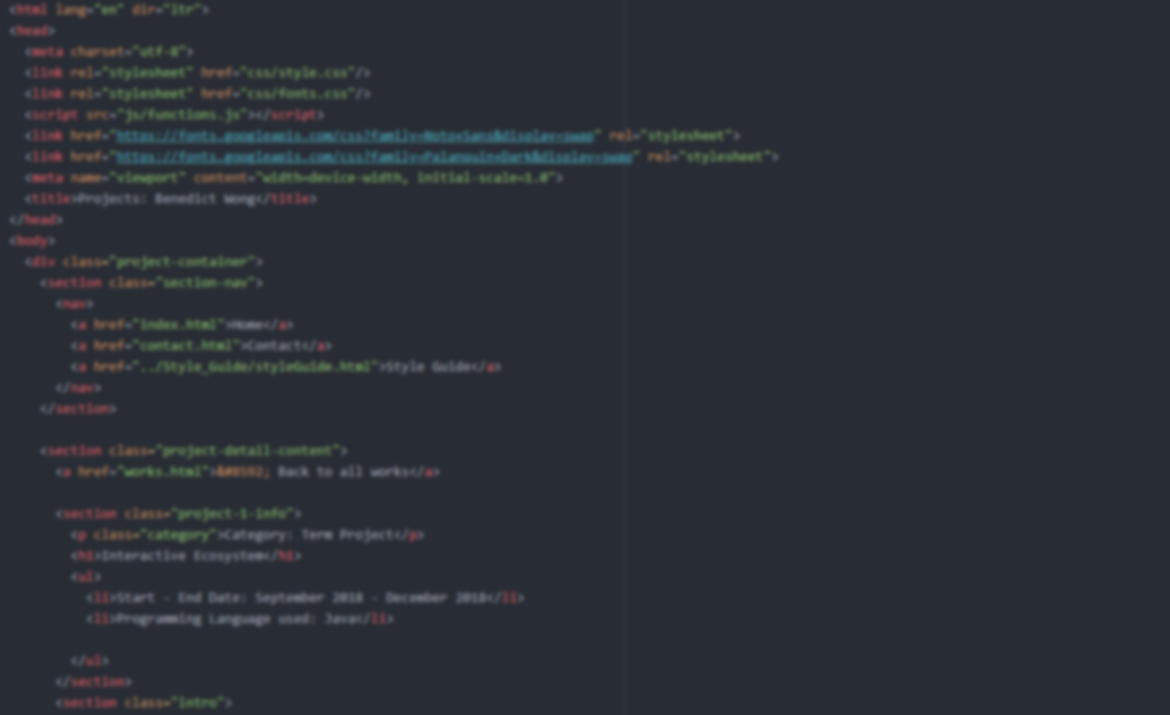
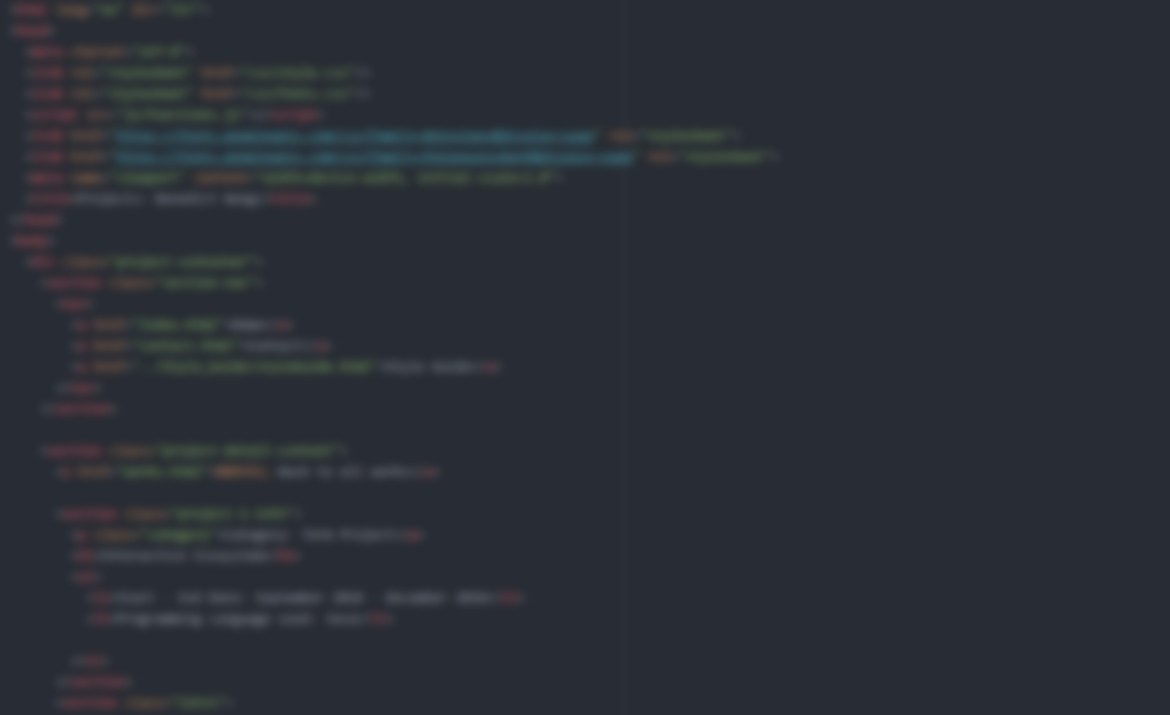
single page design

diff --git a/Website/index.html b/Website/index.html
@@ -11,31 +11,99 @@
     <meta name="viewport" content="width=device-width, initial-scale=1.0">
     <title>About: Benedict Wong</title>
   </head>
-  <body>
-    <section class="landing-page">
-    
+  <body class="index-body">
     <section class="section-nav">
       <nav>
-
-        <a href="works.html">Works</a>
+        <a href="#about">About</a>
+        <a href="#works">Works</a>
         <a href="contact.html">Contact</a>
-        <a href="../Style_Guide/styleGuide.html">Style Guide</a>
+
       </nav>
     </section>
+    <section class="landing-page">
+
+
 
 
     <section class="landing-content-container">
       <section class="landing-content">
-        <h1 class="disableBlur">This is Benedict Wong's Portfolio!</h1>
-        <p class="disableBlur">I'm an object-oriented programmer and a developing game designer whose interests lie in developing games and content for story-driven players.</p>
-        <button class="learn-more" onclick="linkTo('about.html')">LEARN MORE</button>
+        <h1>Welcome to Benedict Wong's Portfolio!</h1>
+
+
       </section>
-    <!--
-    <aside class="landing-image">
-      <img src="img/landing-code.png">
-    </aside>
-    </section> -->
+      <section class="landing-content-more">
+        <p>I'm an object-oriented programmer and a developing game designer whose interests lie in developing games and content for story-driven players.</p>
+        <button class="learn-more" onclick="linkTo('#about')">LEARN MORE</button>
+      </section>
+
   </section>
+  </section>
+
+<section class="about-container"  id="about">
+
+  <section class="section-content about-content">
+
+    <section class="about-title">
+      <!-- <h1>ABOUT ME</h1> -->
+    </section>
+
+      <article>
+        <h1>About Me
+          <a href="https://github.com/Sanada-Yukimura"> <i class="fab fa-github"></i></a>
+          <a href="https://www.linkedin.com/in/benedict-wong-9b3047125"><i class="fab fa-linkedin"></i></a>
+        </h1>
+
+
+      <p>
+        <!-- First person bio or third person bio? -->
+        Hello, my name is Benedict Wong. I’m a game designer and an object-oriented programmer.</p>
+        <p>
+        I am a game designer whose interests lie in creating and developing enjoyable experiences for the player. In order to do so, my goal is to develop games where players make meaningful decisions through various game mechanics such as the ability to make a clear choice.</p>
+        <p>Through my amazing journey as a programmer, I've explored a variety of programming languages. However, while I have used general-purposed programming languages such as <strong>Python</strong> or <strong>C</strong>, I find myself most comfortable utilizing object-oriented languages such as <strong>Java</strong> and <strong>Processing</strong>. These OOP languages help me to create programs that are intricate in both visual and mechanical aspects, something that I am unable do freely with Python or C. Through these OOP languages, I have worked on and created programs such as an interactive eco-system, side-scrolling games, and mobile applications.</p>
+
+    </article>
+
+  </section>
+
+</section>
+
+<section class="works-container" id="works">
+  <h1>Works</h1>
+  <section class="works-content-container">
+    <section class="arrow-left">
+      <a onclick="prev()">&#10148;</a>
+    </section>
+    <section class="projects-content-container">
+      <section class="project-1-new" id="project-1">
+        <div class="project-new">
+          <video id ="project-1-preview" autoplay loop muted>
+            <source src="videos/project-1-preview.webm" type="video/webm">
+          </video>
+        </div>
+        <section>
+          <h2>Interactive Ecosystem</h2>
+          <p>The Interactive Ecosystem is a digital simulation of fish surviving in a fish tank by swimming and eating food to survive.</p>
+          <a href="project-1.html">More info.</a>
+        </section>
+      </section>
+
+      <section class="project-2-new" id="project-2">
+        <div class="project-new">
+          <img src="img/project-2-preview.png">
+        </div>
+        <section>
+          <h2>Interactive Newspaper</h2>
+          <p>The Interactive Newspaper is a prototype of a lightweight Android application designed to save data and adapt to the user's location.</p>
+          <a href="project-2.html">More info.</a>
+        </section>
+      </section>
+    </section>
+    <section class="arrow-right">
+      <a onclick="next()">&#10148;</a>
+    </section>
+
+  </section>
+
 </section>
   </body>
 </html>

diff --git a/Website/about.html b/Website/about.html
@@ -11,81 +11,21 @@
     <meta name="viewport" content="width=device-width, initial-scale=1.0">
     <title>About: Benedict Wong</title>
   </head>
-  <body class="about-page">
+  <body>
+    <section class="landing-page">
 
-    <div class="about-container">
-      <section class="section-nav">
-        <nav>
-
-          <a href="works.html">Works</a>
-          <a href="contact.html">Contact</a>
-          <a href="../Style_Guide/styleGuide.html">Style Guide</a>
-
-        </nav>
-
+    <section class="landing-content-container">
+      <section class="landing-content">
+        <h1>Welcome to Benedict Wong's Portfolio!</h1>
+      </section>
+      <section class="landing-content-more">
+        <p>I'm an object-oriented programmer and a developing game designer whose interests lie in developing games and content for story-driven players.</p>
+        <button class="learn-more" onclick="linkTo('#about')">LEARN MORE</button>
       </section>
 
-      <section class="section-content">
+    </section>
 
-        <section class="about-title">
-          <!-- <h1>ABOUT ME</h1> -->
-        </section>
-
-          <article>
-            <h1>About Me
-              <a href="https://github.com/Sanada-Yukimura"> <i class="fab fa-github"></i></a>
-              <a href="https://www.linkedin.com/in/benedict-wong-9b3047125"><i class="fab fa-linkedin"></i></a>
-            </h1>
-
-
-          <p>
-            <!-- First person bio or third person bio? -->
-            Hello, my name is Benedict Wong. I’m a game designer and an object-oriented programmer.</p>
-            <p>
-            I am a game designer whose interests lie in creating and developing enjoyable experiences for the player. In order to do so, my goal is to develop games where players make meaningful decisions through various game mechanics such as the ability to make a clear choice.</p>
-            <p>Through my journey as a growing programmer, I've explored a variety of programming languages. However, while I have used general-purposed programming languages such as <strong>Python</strong> or <strong>C</strong>, I find myself most comfortable utilizing object-oriented languages such as <strong>Java</strong> and <strong>Processing</strong>. These OOP languages help me to create programs that are intricate in both visual and mechanical aspects, something that I am unable do freely with Python or C. Through these OOP languages, I have worked on and created programs such as an interactive eco-system, side-scrolling games, and mobile applications.</p>
-
-        </article>
-        <!-- <aside>
-          <p>Languages I've worked with: </p>
-          <ul>
-            <li>HTML/CSS</li>
-            <li>JavaScript</li>
-            <li>Python</li>
-
-
-          </ul>
-          <ul>
-            <li>Java</li>
-            <li>Processing</li>
-            <li>Android SDK</li>
-          </ul>
-          <ul>
-            <li>C</li>
-            <li>SourceMod</li>
-
-
-          </ul>
-          <p>Languages I'm more familiar with: </p>
-          <ul>
-            <li>HTML/CSS</li>
-            <li>JavaScript</li>
-            <li>Python</li>
-
-
-          </ul>
-          <ul>
-            <li>Java</li>
-            <li>Processing</li>
-            <li>Android SDK</li>
-          </ul>
-
-        </aside> -->
-
-      </section>
-
-    </div>
-
+    </section>
 
   </body>
 </html>

diff --git a/Website/css/style.css b/Website/css/style.css
@@ -10,7 +10,8 @@ body, html{
 }
 
 body{
-  background-color: #292F37;
+  background-color: #282c34;
+
 }
 
 a{
@@ -27,37 +28,71 @@ ul{
   list-style: none;
 }
 
+.index-body{
+
+}
+.section-nav{
+  background-color: rgba(74, 82, 105, 0.9);
+  padding-bottom: 1em;
+  position: fixed;
+  width:100%;
+}
+
+
 .landing-page{
   background: #282c34 url("../img/landing-code.png") no-repeat center;
-
+  background-size: cover;
+  overflow: auto;
   height:100vh;
+
 
 }
 
 .landing-content-container{
 
   background-color: rgba(245, 246, 247, 0.7);
-  margin:20em 2em;
+  margin:25em auto;
+  margin-right: 0;
+
   margin-bottom: 0;
   display:flex;
-  flex-flow: row nowrap;
+  flex-flow: column nowrap;
+  max-width: 70%;
+
+
 
 
 }
 
 .landing-content{
 
-  margin-left: 2em;
-  margin-right: 1em;
+  padding-left: 2em;
   flex: 50%;
+
+
 }
+
 
 .landing-content h1{
   margin-top: 0;
   color: #BE6200;
+
+  font-size: 3em;
 }
-.landing-content p{
+.landing-content-more{
+
+  padding-left: 2em;
+  padding-bottom: 1em;
+  width:100%;
+  align-self: bottom;
+  background-color: rgba(0, 144, 192, 0.6);
+
+}
+
+.landing-content-more p{
   color:black;
+  font-size: 1.1em;
+
 }
 
 .learn-more{
@@ -153,21 +188,17 @@ h1{
 
 
 .about-container{
+  margin-top: 5em;
   display: flex;
   flex-direction: column;
   align-items: stretch;
-  min-height: 100%;
-  height:100vh;
 }
 
-#works{
-  height:100vh;
-}
 
 .section-nav{
-  margin-top: 1em;
-  margin-top: 1em;
-  margin-left: 1em;
+  padding-top: 1em;
+  padding-left: 1em;
+  text-align: center;
 
 
 }
@@ -180,7 +211,8 @@ h1{
   margin-top: 0.1em;
   padding: 0 1em;
   height:50%;
-  font-size: 1.5em
+  font-size: 2em
+
 
 }
 .section-title h1{
@@ -328,7 +360,7 @@ i{
 
 .works-container{
   flex:50%;
-  margin-top: 2em;
+  margin-top: 5em;
   margin-bottom: 3em;
   text-align: center;
 
@@ -382,7 +414,7 @@ i{
 .project-detail-content{
   display:flex;
   flex-flow: column nowrap;
-  margin: 3em 10em;
+  margin: 6em 10em;
 
 }
 
@@ -460,7 +492,9 @@ i{
   height:100vh;
 }
 
-
+.about-content{
+  height:100vh;
+}
 
 
 

diff --git a/Website/project-2.html b/Website/project-2.html
@@ -11,14 +11,14 @@
   <title>Projects: Benedict Wong</title>
 </head>
 <body>
+  <section class="section-nav">
+    <nav>
+      <a href="index.html">Home</a>
+      <a href="index.html#contact">Contact</a>
+      <a href="../Style_Guide/styleGuide.html">Style Guide</a>
+    </nav>
+  </section>
   <div class="project-container">
-    <section class="section-nav">
-      <nav>
-        <a href="index.html">Home</a>
-        <a href="contact.html">Contact</a>
-        <a href="../Style_Guide/styleGuide.html">Style Guide</a>
-      </nav>
-    </section>
 
     <section class="project-detail-content">
       <a href="works.html">&#8592; Back to all works</a>
@@ -33,8 +33,8 @@
       <section class="intro">
         <div class="project-prompt">
           <h2 class="lquot">&#8220;</h2>
-          <p class="first-p">The objective of this project is to provide you with an opportunity to explore and develop an Android application with a topic of your choosing through the many functionalities, design patterns, sensor interactions and hardware features on the Android Mobile Framework.</p>
-          <p class="last-p">The topic and eventual outcome of the Android application should take advantage of the possibilities offered by a mobile device as an always present, always connected computing device that presents the user with a rich set of interactions using tools such as audio, video, GPS and other sensor functionalities. </p>
+          <p class="first-p">The goal of this final project is to create a video game of your choice, taking in themes and gameplay that you wish to create. While the topic and design of the video game is of your choosing, keep in mind that this project is a culmination of the concepts taught throughout the term and must contain the following aspects: A selection of the “Eight Types of Fun” by Hunicke et al., clear system design and win and loss conditions.</p>
+
           <h2 class="rquot">&#8221;</h2>
         </div>
 
